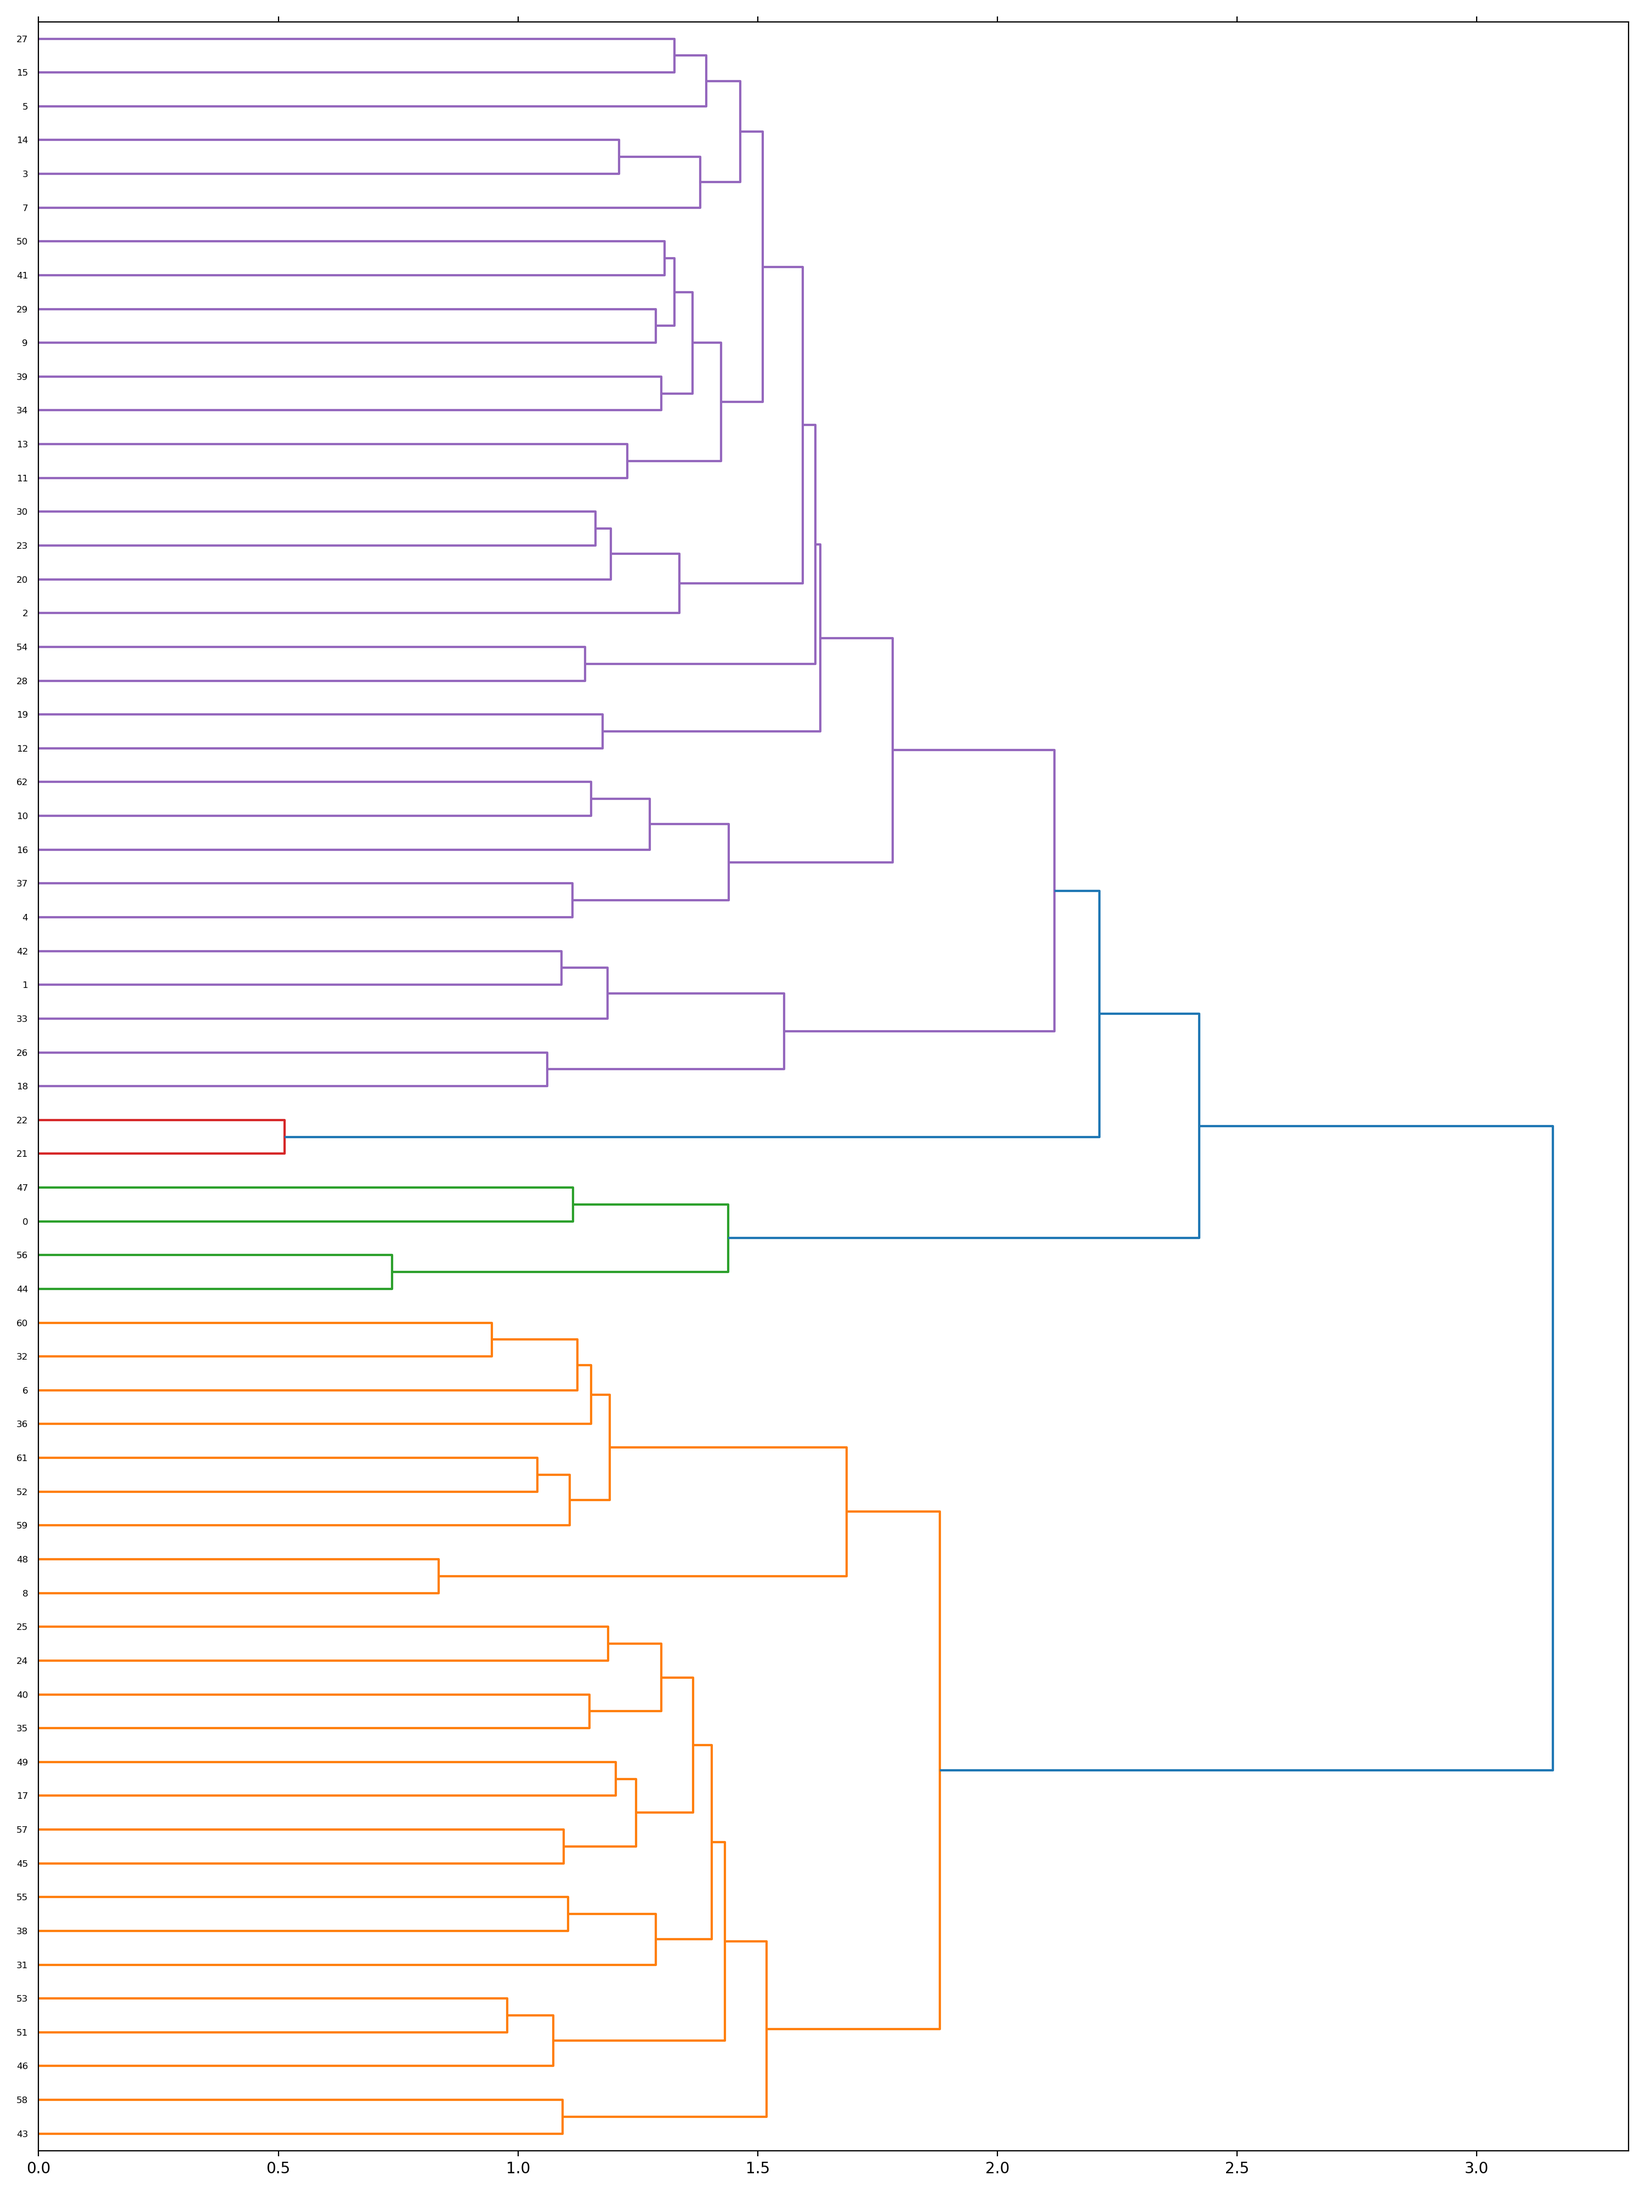
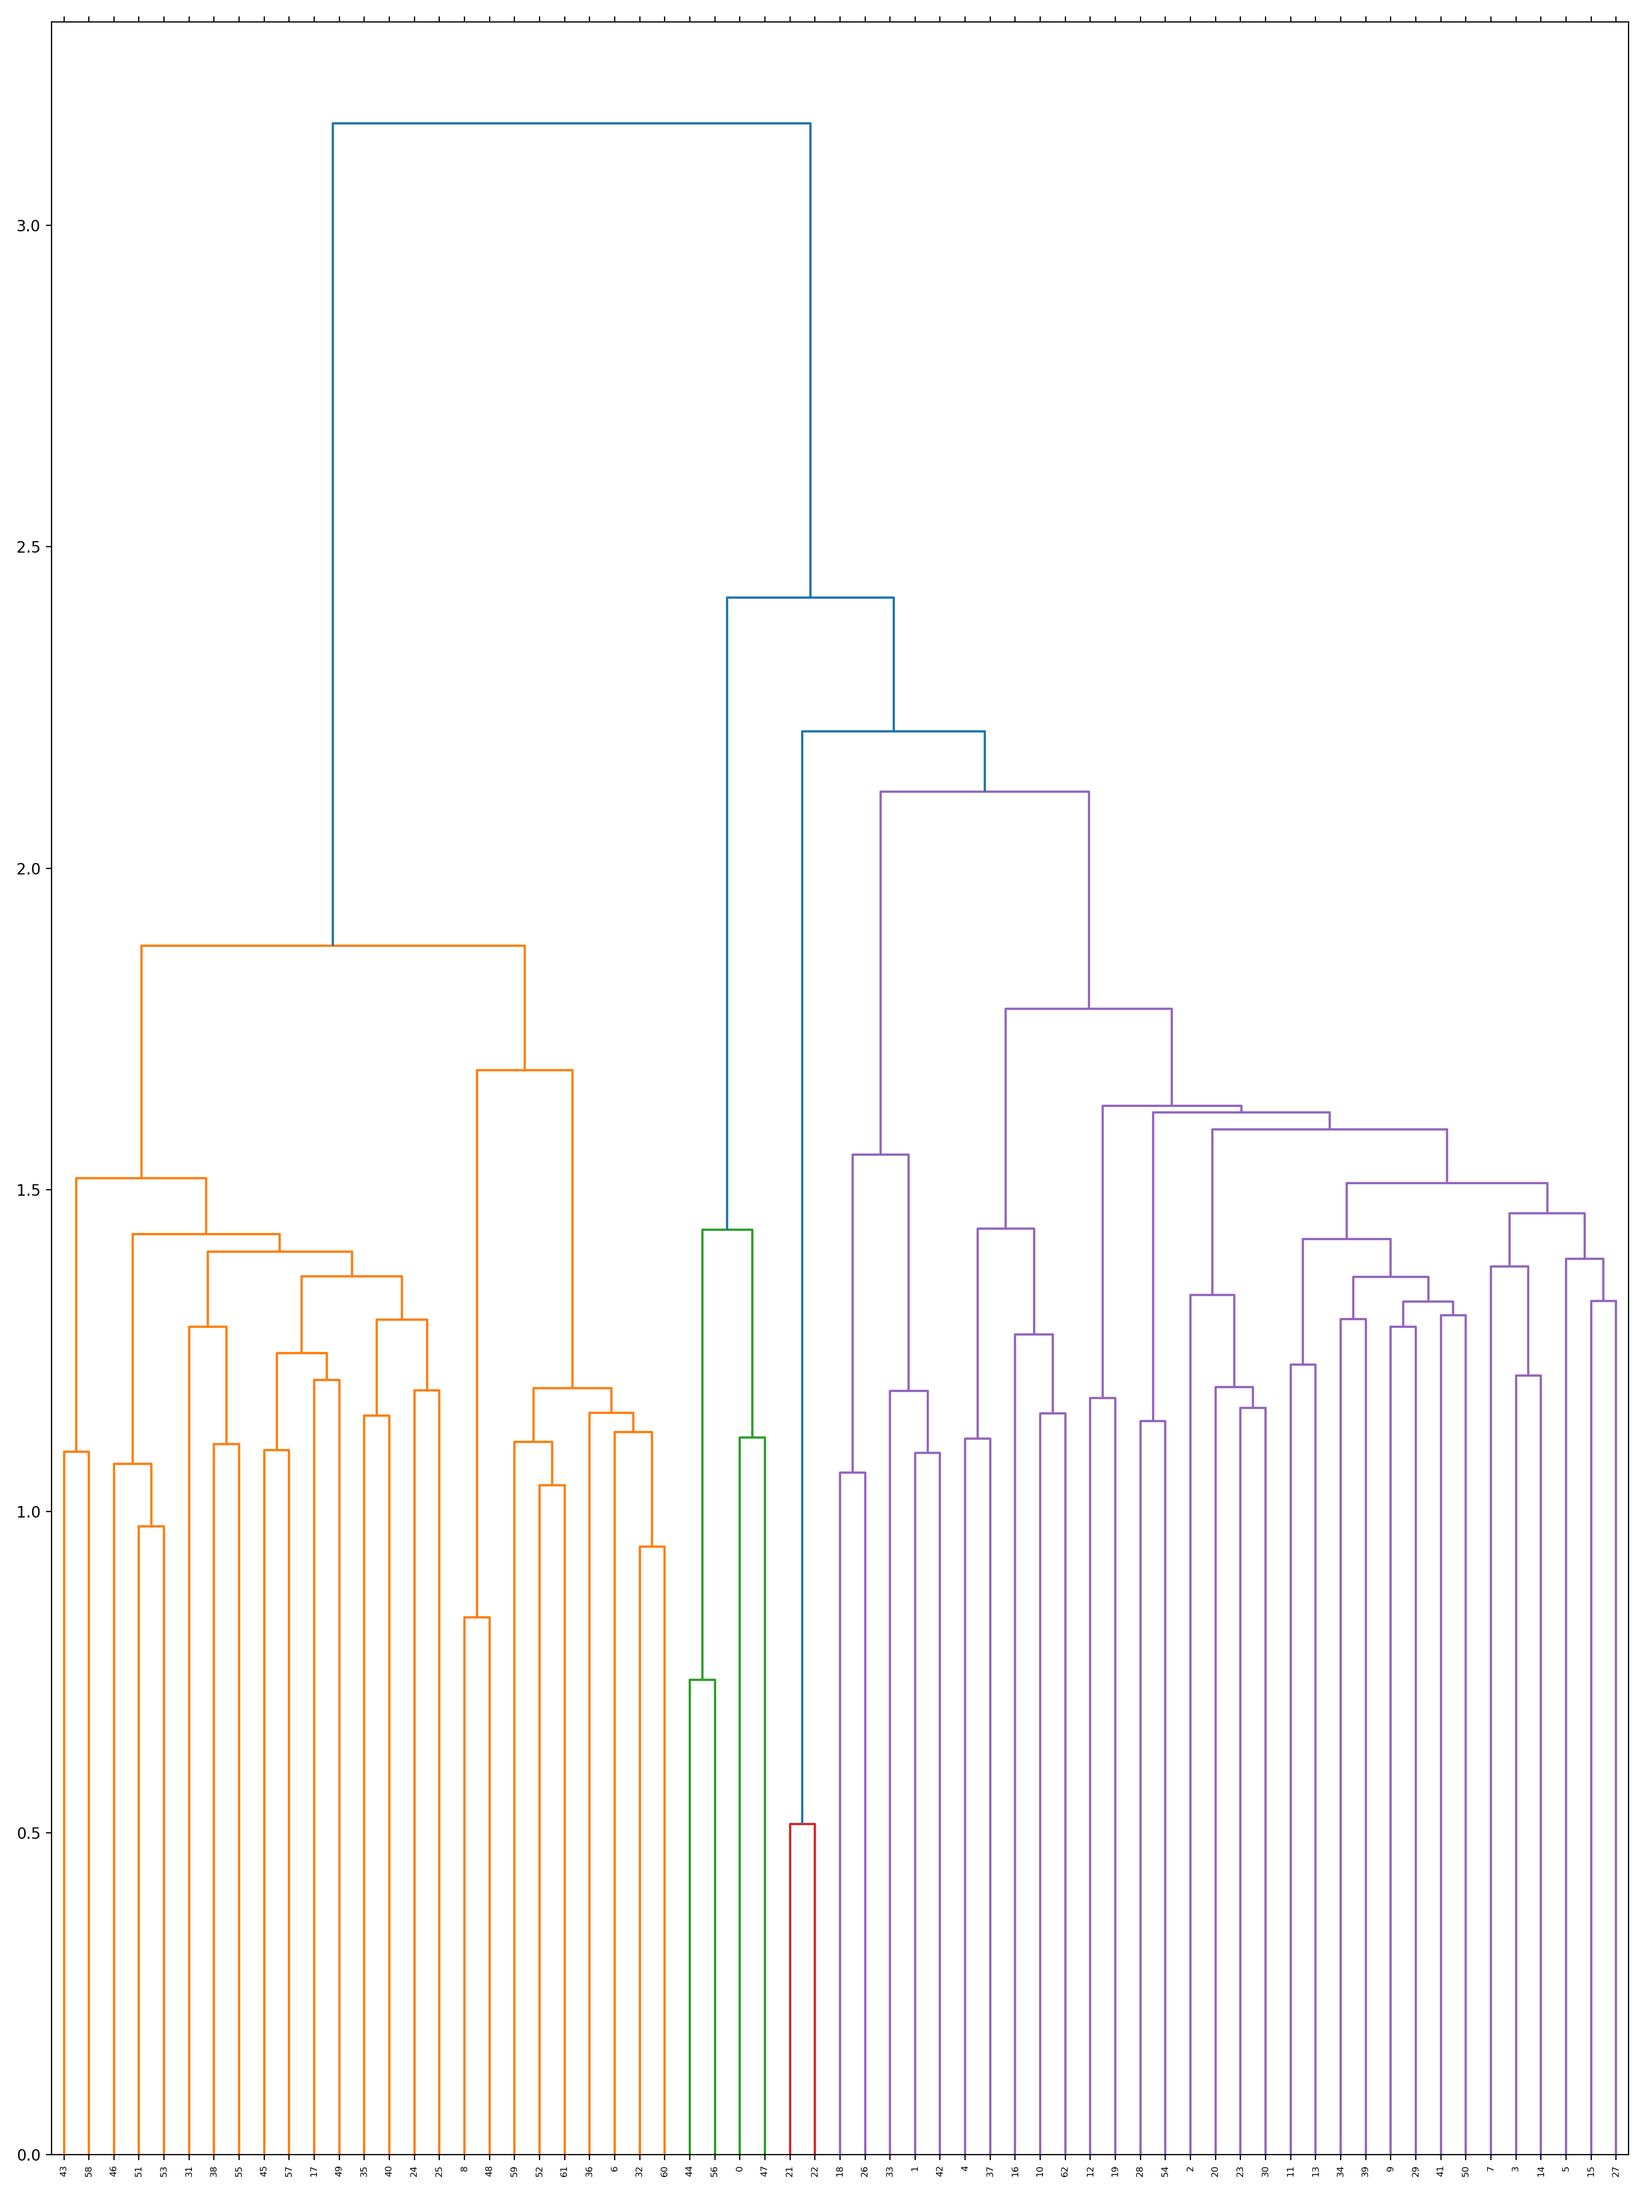
update

diff --git a/Projects/Clasificador/jerar.py b/Projects/Clasificador/jerar.py
@@ -20,7 +20,7 @@ datos= pd.read_csv('grimms.csv') # lectura del dataframe
 
 # explorando la informacion
 
-#print(datos.info())
+print(datos.info())
 
 # pre-procesamiento de datos
 
@@ -31,19 +31,19 @@ vectorizacion = TfidfVectorizer(stop_words='english')  #Frecuencia de palabras
 
 caracteristicas = vectorizacion.fit_transform(archivos)  #transformando todas las caracteristicas usando la media y la varianza
 
-#print(caracteristicas)
 
-terms = vectorizacion.get_feature_names_out()
-
-
-dist = 1 - cosine_similarity(caracteristicas)
+terms = vectorizacion.get_feature_names_out() #obtencion de la salida de los nombres por caracteristicas para la transformacion
 
 
-matriz_enlace = ward(dist) #definimos la matriz de enlace utilizando la distancia precalculadas de agrupacion de clusteres
+dist = 1-cosine_similarity(caracteristicas)
 
-fig, ax = plt.subplots(figsize=(15, 20)) # set size
-ax = dendrogram(matriz_enlace, orientation="right");
 
+matriz_enlace = ward(dist) #definimos la matriz de enlace utilizando la distancia euclidiana como metrica
+
+#visualizacion del dendograma
+fig, ax = plt.subplots(figsize=(15, 20)) # tamaño del set
+ax = dendrogram(matriz_enlace, orientation="top");
+#Definimos las propiedades
 plt.tick_params(
     axis= 'x',          # aplicamos los cambios al eje x
     which='both',      

diff --git a/Projects/Clasificador/cluster.py b/Projects/Clasificador/cluster.py
@@ -20,10 +20,11 @@ datos= pd.read_csv('grimms.csv') # lectura del dataframe
 archivos = datos['Text'].values.astype("U")
 
 #print(archivos)
-vectorizacion = TfidfVectorizer(stop_words='english')  #Frecuencia de palabras
+vectorizacion = TfidfVectorizer(max_df=0.8,stop_words='english')  #Frecuencia de palabras
 
 caracteristicas = vectorizacion.fit_transform(archivos)  #transformando todas las caracteristicas usando la media y la varianza
-
+some= caracteristicas.toarray()
+print(some)
 #print(caracteristicas)
 k=20
 modelo = KMeans(n_clusters=k,init='k-means++',max_iter=100,n_init=1)   # Aplicacion del algoritmo kmenas
@@ -32,7 +33,7 @@ modelo.fit(caracteristicas)  #entrenamiento del modelo con los datos
 
 datos['cluster'] = modelo.labels_ #asignacion de las etiquetas
 
-print(datos.tail())
+#print(datos.tail())
 
 # resultado al archivo de texto
 
